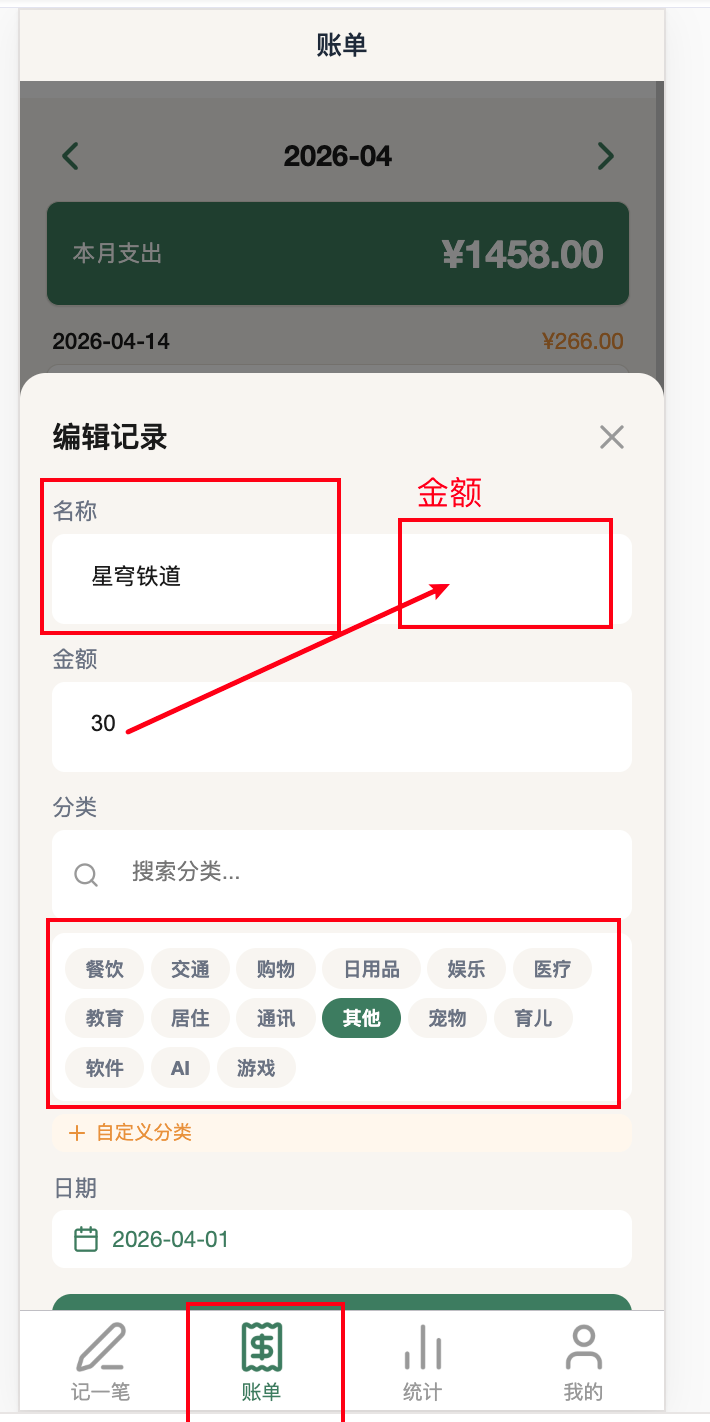
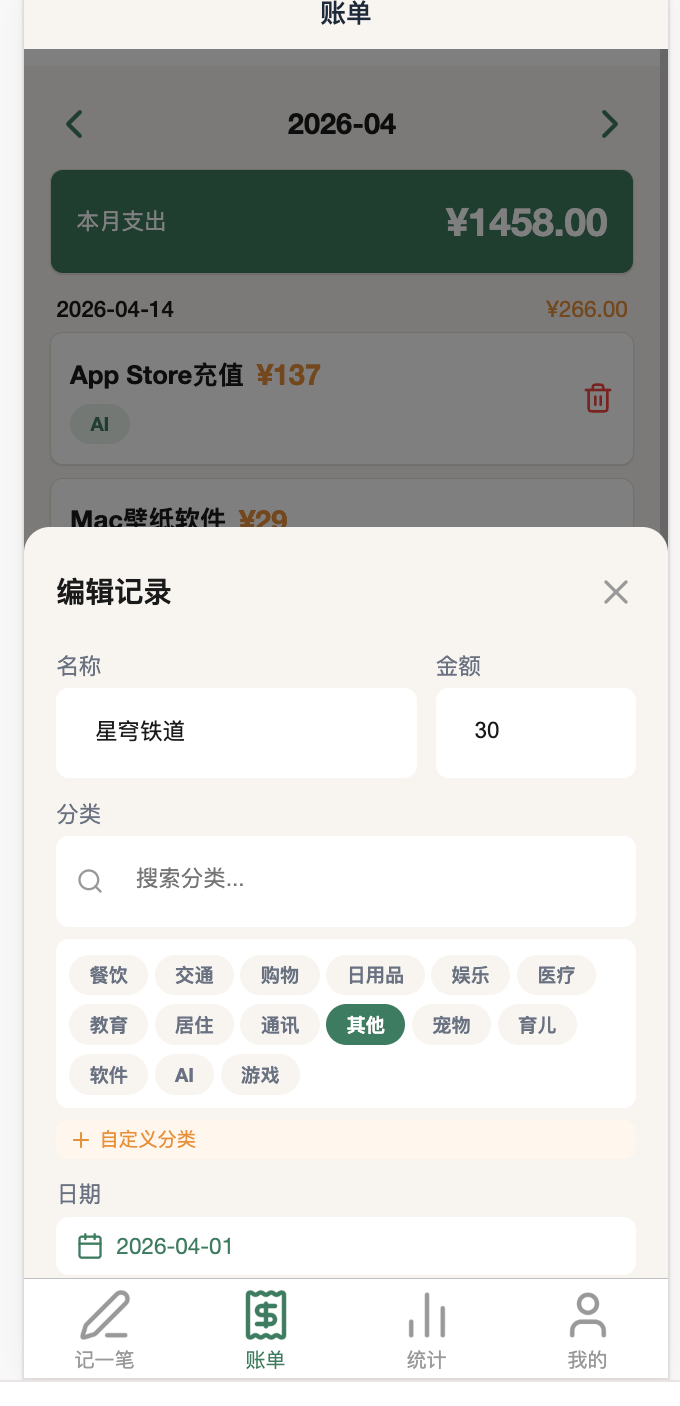
fix: 账单编辑弹窗可滚动，保存按钮始终可见
- 弹窗内容用 ScrollView 包裹（maxHeight: 80vh），分类多了也能滚动
- 修复 View 嵌套闭合标签缺失导致 tsc 报错
- 名称+金额同一行布局保留

diff --git a/src/pages/bills/index.tsx b/src/pages/bills/index.tsx
@@ -278,7 +278,9 @@ const BillsPage = () => {
       {/* Edit Modal */}
       {editingRecord && (
         <View className="fixed inset-0 z-50 flex items-end justify-center" style={{ backgroundColor: 'rgba(0,0,0,0.5)' }}>
-          <View className="w-full bg-[#F7F5F0] rounded-t-2xl p-5 pb-4">
+          <View className="w-full bg-[#F7F5F0] rounded-t-2xl" style={{ maxHeight: '80vh' }}>
+            <ScrollView scrollY className="w-full">
+              <View className="p-5 pb-4">
             {/* Header */}
             <View className="flex flex-row items-center justify-between mb-4">
               <Text className="block text-lg font-semibold text-[#1A1A1A]">编辑记录</Text>
@@ -385,6 +387,8 @@ const BillsPage = () => {
             >
               {isUpdating ? '保存中...' : '保存修改'}
             </Button>
+            </View>
+            </ScrollView>
           </View>
         </View>
       )}
